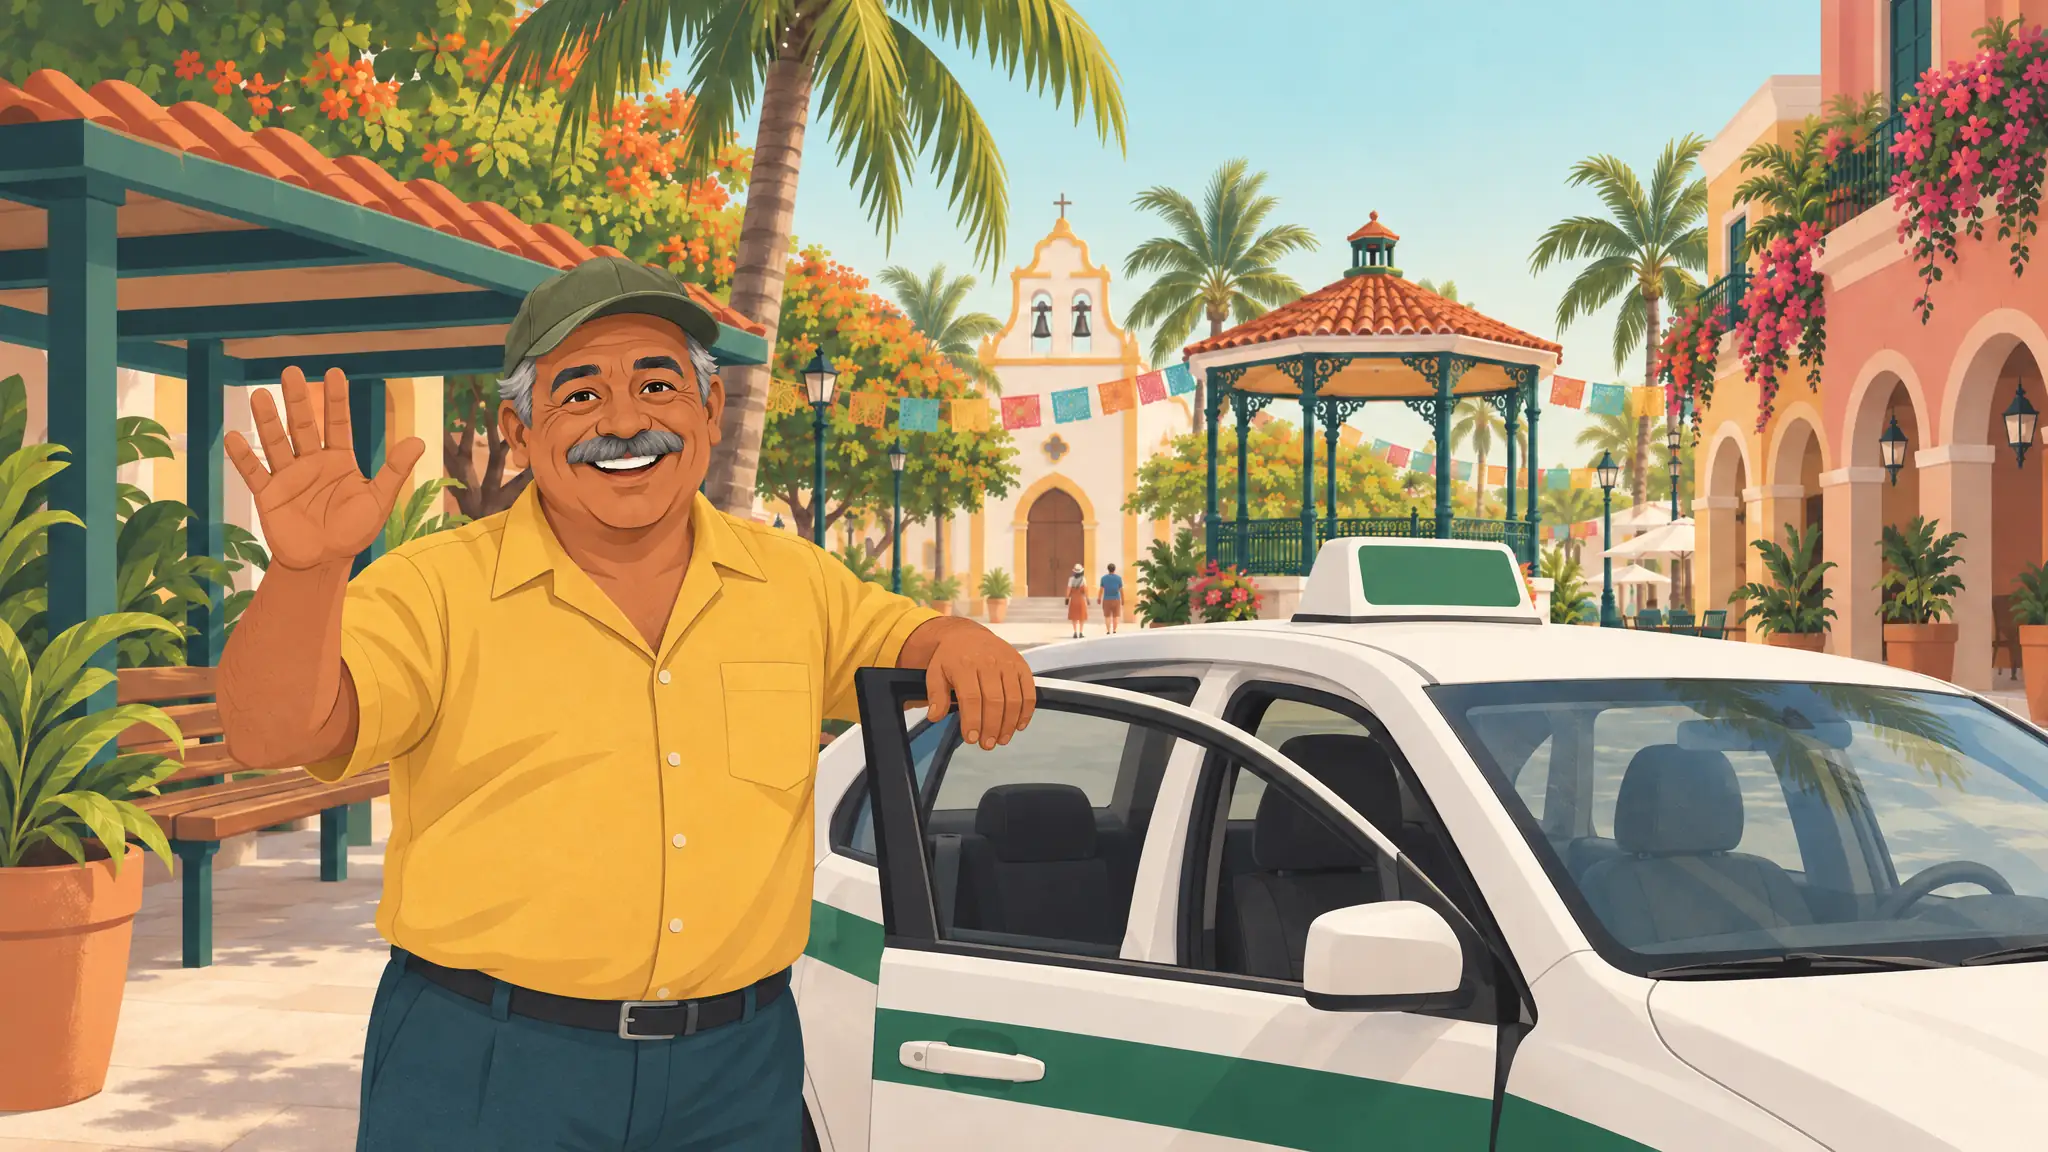
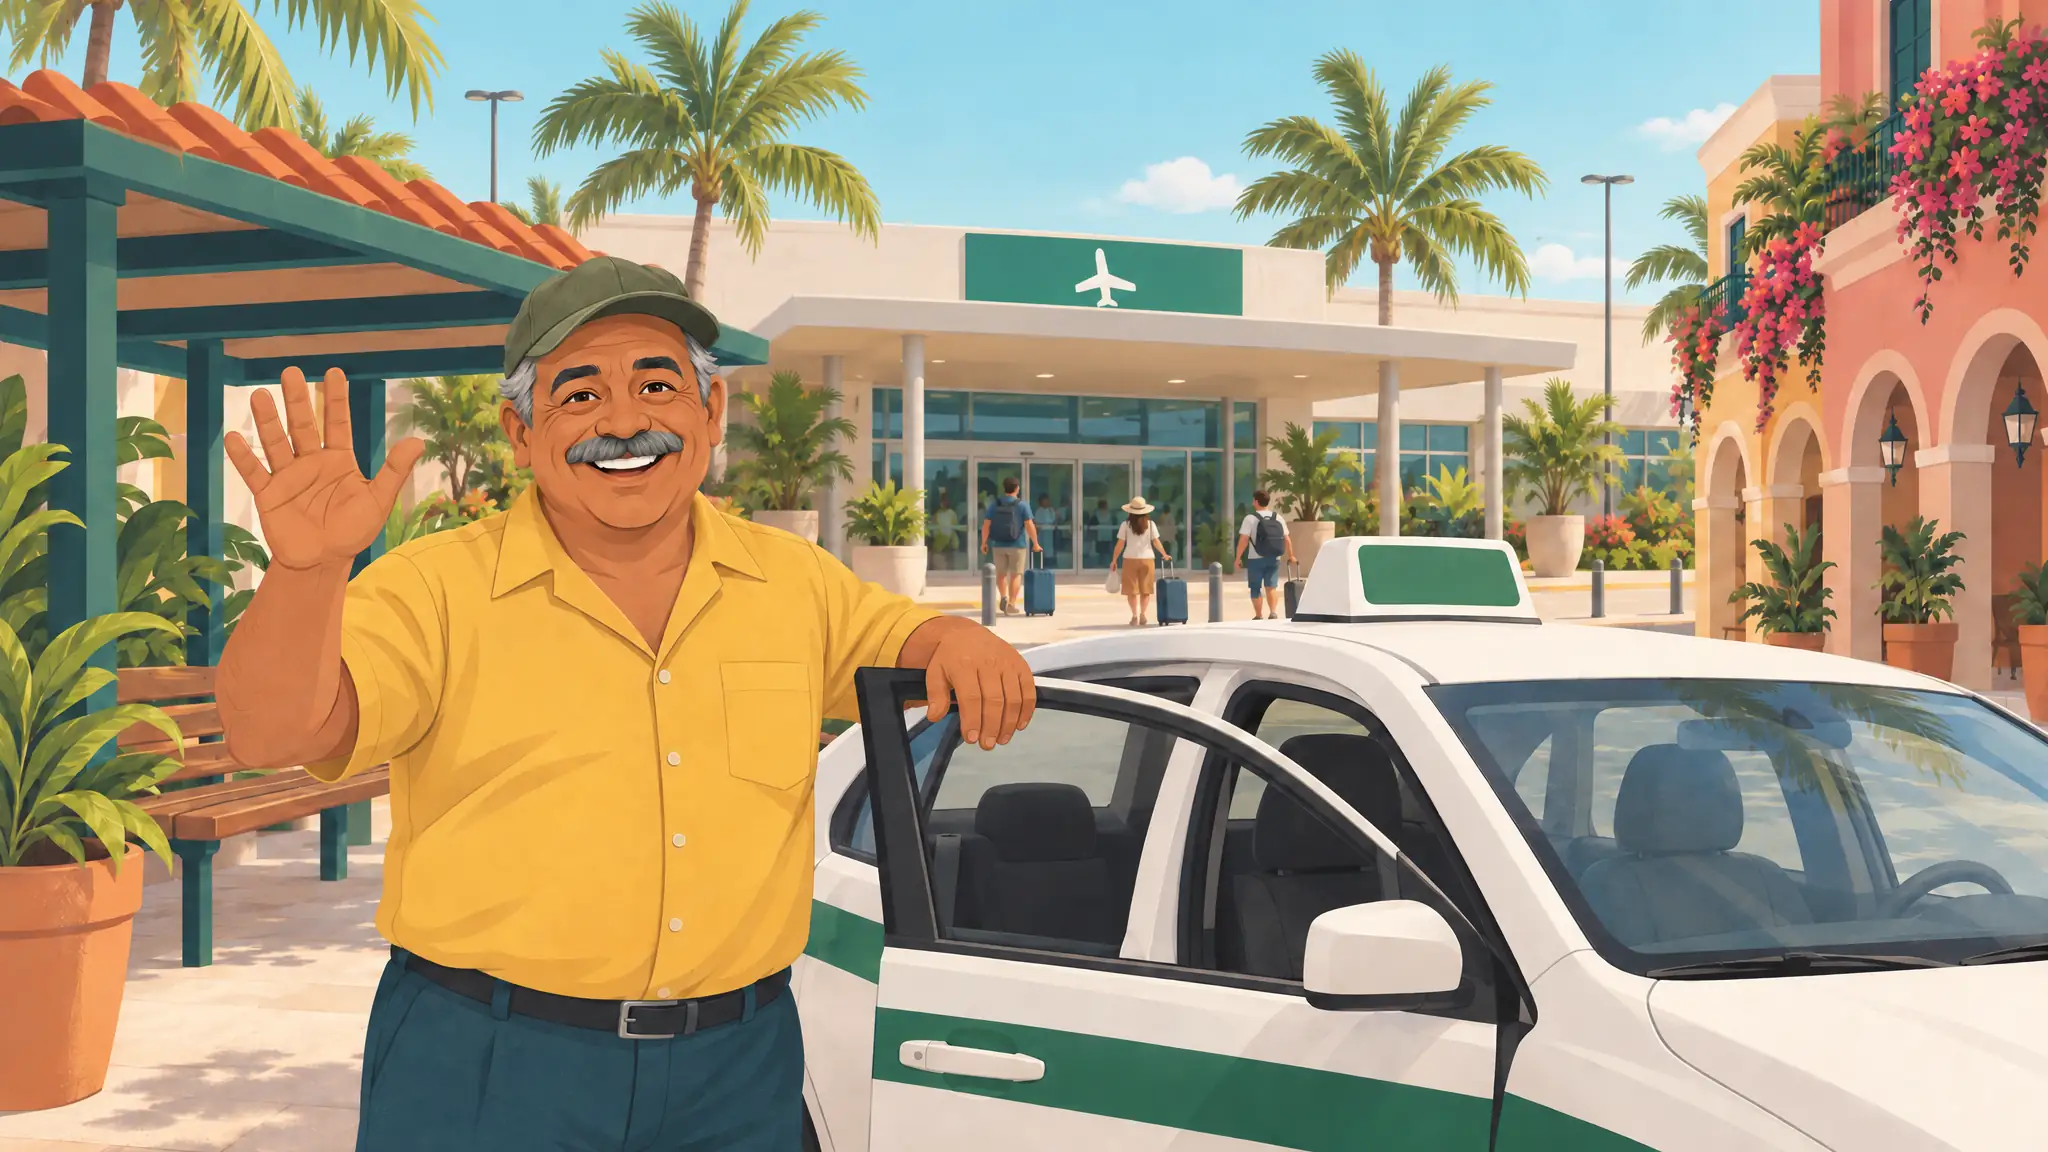
Spanish pictures audit: s66's taxi stand by the airport terminal
The s66 dialogue audit (b59829ee) put the sitio next to the airport terminal at the east end of avenida Juárez, with the zócalo a destination; greet, fare and haggle showed the stand on the zócalo (the church and the kiosco behind it) and the goodbye too. greet: the background is now the terminal (an edit of its own picture); fare, haggle, bye: made again from it with their prompts. 4 pictures through the regular API, $0.28; the ledger $42.78 of the $75 stop. The manifest note and the place reference's note say where the stand is now.

diff --git a/docs/es/PICTURES.md b/docs/es/PICTURES.md
@@ -21,17 +21,18 @@ retries fit.
   wired into the game (section 8). The references: 58 portraits and 47 places (section 4).
 - **Audited on 5 Nov 2026** (the picture audit's notes, PICTURES-AUDIT.md): every situation picture checked against
   its portrait, the lines on screen while it shows (simulated conversations), the text and name-tag rules,
-  near-duplicates, the style, anatomy and place details; 110 findings (4 high, 23 medium, 83 low). **48 pictures
+  near-duplicates, the style, anatomy and place details; 110 findings (4 high, 23 medium, 83 low). **52 pictures
   remade** (the high and medium ones and 15 low ones: a third hand, a second passport, the mute icon back on a
   video, a banknote that looked like a dollar, moments that showed the wrong thing, near-copies, a hat that came and
-  went, the gym's leg press), and the phases of 6 moments in s33, s82 and s89 remapped so the picture fits its line
+  went, the gym's leg press; and s66's four pictures at the taxi stand, which the s66 dialogue audit moved from the
+  zócalo to the airport terminal), and the phases of 6 moments in s33, s82 and s89 remapped so the picture fits its line
   (s82's medium finding was fixed that way; in s33 Don Pancho's painting shows on Fridays and his fishing on Mondays,
   and react, the pending after each of his stories, keeps his listening pose). Each remade entry has a `note` in its manifest. Left as they are: the
   low findings (above all the sea seen from inland places, which comes from the place references).
-- **Spent: $42.50** of the $75 stop (the owner approved $82), 765 requests. Until the audit: $40.59 (regular API: 506
+- **Spent: $42.78** of the $75 stop (the owner approved $82), 769 requests. Until the audit: $40.59 (regular API: 506
   requests, $33.30: the test $0.03; the references, their redos and name tags: 132, $7.43; situation pictures: 373,
   $25.85 = 75 first pictures and their redo, 298 edits. Batch API: 209 situation pictures, $7.29: 158 + 49 edits, 2
-  redos). The audit: $1.91 (45 edits in one batch, $1.62; 4 through the regular API, $0.29).
+  redos). The audit: $2.18 (45 edits in one batch, $1.62; 8 through the regular API, $0.56).
 - **Weight:** since the audit every situation picture is WebP quality 65 (section 9): 76.8 MB for the 579, 26% less
   than at quality 80, with no visible difference at the game's display sizes.
 - **Why most went through the regular API:** the first pictures by design (each checked before its edits); then the
@@ -401,7 +402,7 @@ empty: the situation's first picture puts the person there. Places inside a bigg
 | `place/calle-residencial` | A residential street | p25-used-car, s82-neighbor |  |
 | `place/gimnasio` | Gimnasio Colibrí | s35-gym |  |
 | `place/museo` | Museo de la Costa Maya | s70-museum |  |
-| `place/sitio-taxis` | The taxi stand (sitio) | s66-taxi | setting: `place/zocalo` |
+| `place/sitio-taxis` | The taxi stand (sitio) | s66-taxi | setting: `place/zocalo`; since the s66 dialogue audit the sitio stands by the airport terminal: s66's pictures were edited (start from `s66-taxi/greet`) |
 | `place/informacion-turistica` | The tourist information office | s62-visitor-center |  |
 | `place/correos` | The post office | s79-post |  |
 | `place/boutique-hilos` | Boutique Hilos | s74-clothes |  |
